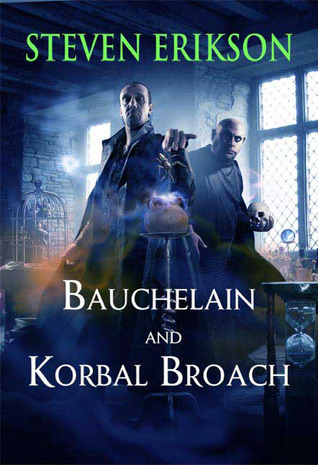
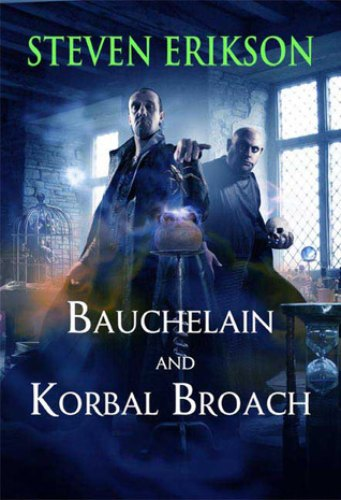
style: Add styling to carousel, resize image files

diff --git a/index.html b/index.html
@@ -67,7 +67,7 @@
             </div>
             <div class="col-12 col-md-5 authors-container">
                 <a href="#"><img class="author-img" src="./assets/images/authors/steven-erikson.jpg" alt="Steven Erikson up-close photograph."></a>
-                <h4>Steven Erikson</h3>
+                <h4>Steven Erikson</h4>
                 <p>Steven Erikson (born 1959) is the pseudonym of Steve Rune Lundin, a Canadian novelist, who was educated and trained as both an archaeologist and anthropologist. While at the university, he also took courses in fiction writing. 
                     <br>His best-known work is the series, 
                     <strong>the Malazan Book of the Fallen</strong>.</p>
@@ -79,7 +79,7 @@
             </div>
             <div class="col-12 col-md-5 authors-container">
                 <a href="#"><img class="author-img" src="./assets/images/authors/ian-cameron-esslemont.jpg" alt="Ian Cameron Esslemont up-close photograph."></a>
-                <h4>Ian <abbr class="remove-style" title="Cameron">C.</abbr> Esslemont</h3>
+                <h4>Ian <abbr class="remove-style" title="Cameron">C.</abbr> Esslemont</h4>
                 <p>Ian Cameron Esslemont (born 1962) is a Canadian writer. He has a degree in Creative Writing, studied and worked as an archaeologist, travelled extensively in South East Asia, and lived in Thailand and Japan for several years. 
                     <br>He is best-known for his series 
                     <strong>Novels of the Malazan Empire</strong>.</p>
@@ -92,7 +92,7 @@
     <section class="collections">
         <div class="row">
             <div class="col-12">
-                <h3 class="font-special">Collections available</h3>
+                <h3>Collections available</h3>
             </div>
         </div>
         <div class="container text-center mb-5">       
@@ -102,10 +102,10 @@
             <!-- Credits: Image forge-of-darkness sourced.jpg from Goodreads https://www.goodreads.com/book/show/13038833-forge-of-darkness -->
             <!-- Credits: Image the-god-is-not-willing.jpg sourced from Fandom website https://malazan.fandom.com/wiki/The_God_is_Not_Willing and is used in line with Fair Use law -->
             <!-- Credits: Image bauchelain-and-korbal-broach.jpg sourced from Goodreads https://www.goodreads.com/book/show/6616579-bauchelain-and-korbal-broach -->
-            <!-- Credits: Code snippet adapted from: https://www.jqueryscript.net/slider/responsive-bootstrap-carousel-multiple-items.html -->
+            <!-- Credits: Code snippet has been adapted from, note that is has been adjusted by me to suid my needs: https://www.jqueryscript.net/slider/responsive-bootstrap-carousel-multiple-items.html -->
             <div class="row mx-auto my-auto">
                 <div id="myCarousel" class="carousel slide w-100" data-ride="carousel">
-                    <div class="carousel-inner w-100" role="listbox">
+                    <div class="carousel-inner w-100 font-special" role="listbox">
                         <div class="carousel-item active">
                             <div class="col-lg-4 col-md-6">
                                 <img class="img-fluid" src="./assets/images/books/complete-malazan-book-of-the-fallen.jpg" alt="Complete Malazan Book of the Fallen.">
@@ -162,13 +162,13 @@
     <!--<section class="collections">-->
 
     <!-- Reviews -->
-    <section class="reviews">
+    <section class="testimonials">
         <!-- Credits: Image stephen-r-donaldson.jpg sourced from Wikimedia https://upload.wikimedia.org/wikipedia/commons/7/78/Stephen_R_Donaldson_%28cropped%29.jpg-->
         <!-- Credits: Image glen-cook sourced from Wikimedia https://commons.wikimedia.org/wiki/File:Utos107-Glen_Cook.jpg-->
         <!-- Credits: Image michael-a-stackpole.jpg sourced from Wikimedia https://commons.wikimedia.org/wiki/File:Michael_Stackpole_by_Gage_Skidmore.jpg-->
         <div class="row">
             <div class="col-12">
-                <h2>Reviews</h2>
+                <h3>Testimonials</h3>
             </div>
         </div>
         <div class="row">

diff --git a/assets/css/style.css b/assets/css/style.css
@@ -15,12 +15,12 @@ body {
   font-family: 'Lato', sans-serif;
 }
 
-.font-special {
+.font-special, h3{
   font-family: 'IM Fell DW Pica SC', serif;
 }
 
 h3 {
-  padding-bottom: 1rem;
+  padding-bottom: 10vh;
   font-size: 2.25rem;
   text-transform: capitalize;
   text-align: center;
@@ -180,12 +180,8 @@ header {
 
 /*------------------------------------------ Authors section */
 .authors {
-  padding: 5vh 5vw;
+  padding: 7vh 5vw 10vh 5vw;
   text-align: center;
-}
-
-.authors-container {
-  padding-top: 4vh;
 }
 
 .author-img {
@@ -197,7 +193,7 @@ header {
 }
 
 .authors h4 {
-  padding-top: 3vh;
+  margin-top: 5vh;
 }
 
 .authors p {
@@ -217,7 +213,7 @@ header {
 }
 
 .author-helmet-icon {
-  margin-top: 3vh;
+  margin-top: -10vh;
   align-items: center;
   justify-content: center;
 }
@@ -230,15 +226,44 @@ header {
 }
 
 .top {
-  bottom: 70%;
+  bottom: 65%;
 }
 
 .bot {
   top: 70%;
 }
 
-/*------------------------------------------ Temporary */
-img {
+/*------------------------------------------ Collections section */
+.fa-chevron-left {
+  margin-left: 3vh;
+}
+
+.fa-chevron-right {
+  margin-right: 3vh;
+}
+
+.collections p {
+  font-size: 1.25rem;
+}
+
+i {
+  color:black;
+  font-size: 1.5rem; 
+  background-color: white;
+  padding: 8px;
+  border: 3px solid #755a3c;
+  border-radius: 15px;
+}
+
+.collections img {
+  height: 300px;
+  width: 200px;
+}
+
+/*------------------------------------------ Testimonials */
+
+
+.testimonials img {
   max-height: 300px;
   max-width: 300px;
 }
@@ -246,6 +271,10 @@ img {
 /*------------------------------------------ Media Queries */
 
 @media (min-width: 576px) {
+  /* Typography */
+  h3 {
+    font-size: 3rem;
+  }
   .navbar-brand {
     font-size: 2.5rem;
   }
@@ -326,7 +355,24 @@ img {
     width: 230px;
   }
 }
-/*------------------------------------------ Carousel */
+/*------------------------------------------ Carousel Media Queries*/
+/*Credits: Code snippet has been adapted from, note that is has been adjusted by me to suid my needs: https://www.jqueryscript.net/slider/responsive-bootstrap-carousel-multiple-items.html*/
+@media (min-width: 576px) {
+  .fa-chevron-left {
+    margin-left: 5vh;
+  }
+  .fa-chevron-right {
+    margin-right: 5vh;
+  }
+  .collections p {
+    font-size: 1.5rem;
+  }
+  .collections img {
+    height: 400px;
+    width: 260px;
+  }
+}
+
 @media (min-width: 768px) {
   .carousel-inner .carousel-item-right.active,
   .carousel-inner .carousel-item-next {
@@ -336,8 +382,16 @@ img {
   .carousel-inner .carousel-item-prev {
       transform: translateX(-50%);
   }
+  .fa-chevron-left {
+    margin-left: 0vh;
+    margin-bottom: 5vh;
+  }
+  .fa-chevron-right {
+    margin-right: 0vh;
+    margin-bottom: 5vh;
+  }
 }
-/* large - display 3 */
+
 @media (min-width: 992px) {
   .carousel-inner .carousel-item-right.active,
   .carousel-inner .carousel-item-next {
@@ -347,8 +401,15 @@ img {
   .carousel-inner .carousel-item-prev {
       transform: translateX(-33%);
   }
+  /*.fa-chevron-left {
+    margin-left: -1vh;
+  }
+  .fa-chevron-right {
+    margin-right: -1vh;
+  }*/
 }
-@media (max-width: 768px) {
+
+@media (max-width: 767px) {
   .carousel-inner .carousel-item>div {
       display: none;
   }
@@ -356,6 +417,7 @@ img {
       display: block;
   }
 }
+
 .carousel-inner .carousel-item.active,
 .carousel-inner .carousel-item-next,
 .carousel-inner .carousel-item-prev {
@@ -365,7 +427,4 @@ img {
 .carousel-inner .carousel-item-left {
   transform: translateX(0);
 }
-i{
-  color:black;
-  font-size:1.5rem; 
-}
+
